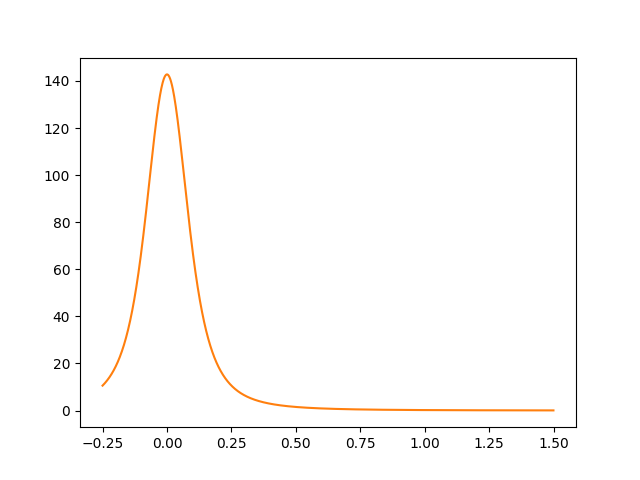
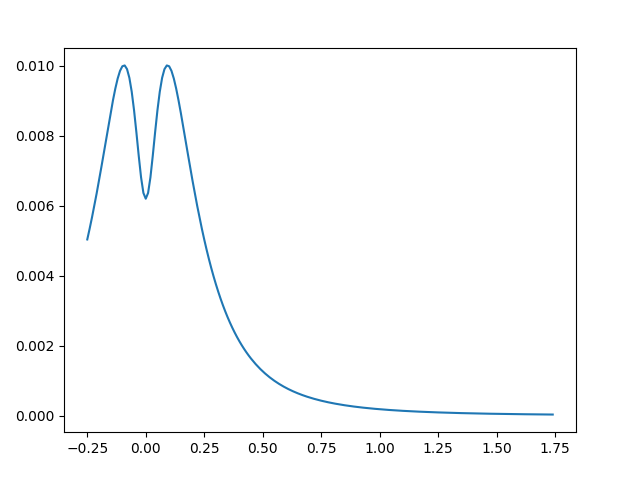
computation: refactored division by 0 handling
* Closes #46.

diff --git a/elements/coils.py b/elements/coils.py
@@ -10,11 +10,15 @@
 
 import mpmath
 import numpy as np
-
+import warnings
 from elements.base import BasicElement
 
 from utils.helper_functions import get_phi, adjust_field
 from utils.physics_constants import MU_0
+
+# Set the warning filter to errors such that one can catch them as they were errors
+# This is used to handle divisions by numerical 0
+warnings.filterwarnings('error')
 
 
 class BaseCoil(BasicElement):
@@ -137,7 +141,7 @@ class Coil(BaseCoil):
         self.angle_y = angle_y
         self.angle_z = angle_z
 
-        self.prefactor *= 1e3 / (2 * np.pi) * self.n * self.current / self.length
+        self.prefactor *= 1e0 / (2 * np.pi) * self.n * self.current / self.length
 
     def b_field_rho(self, x, rho):
         """Computes radial magnetic field
@@ -210,9 +214,6 @@ class Coil(BaseCoil):
         """Compute the magnetic field given the position in cylindrical coordinates."""
         r = np.sqrt(z ** 2 + y ** 2)
 
-        # if np.sqrt(x ** 2 + y ** 2) - rho < 0.001:
-        #     return np.array([0, 0, 0])
-
         phi = get_phi(y, z)
 
         field = np.array((self.b_field_x(x, r),
@@ -249,7 +250,7 @@ class RealCoil(BaseCoil):
         self.angle_y = angle_y
         self.angle_z = angle_z
 
-        self.prefactor *= 1e3 / (2 * np.pi) * self.n * self.current / self.length
+        self.prefactor *= 1e0 / (2 * np.pi) * self.n * self.current / self.length
 
     def b_field_rho(self, x, r, axis_point):
         """Compute the magnetic field in rho (radial) direction.
@@ -365,7 +366,7 @@ class SquareCoil(BaseCoil):
         self.angle_y = angle_y
         self.angle_z = angle_z
 
-        self.prefactor *= 1e0 / (4 * np.pi) * self.n * self.current / self.length
+        self.prefactor *= 1e-1 / (4 * np.pi) * self.n * self.current / self.length
 
     def check_physical_coil_overlap(self):
         """Deal with division by 0.
@@ -379,7 +380,7 @@ class SquareCoil(BaseCoil):
                 or abs(self.y + self.width) < numerical_error_acceptance\
                 or abs(self.x - self.height) < numerical_error_acceptance\
                 or abs(self.x + self.height) < numerical_error_acceptance:
-            return True
+            return False
 
     @staticmethod
     def _reverse_coordinates(x, y, z):
@@ -464,13 +465,20 @@ class SquareCoil(BaseCoil):
             # Python indexing starts from 0, so whenever alpha is used as an array index it has to be subtracted by 1
             alpha_index = alpha - 1
 
-            t1 = ((-1) ** alpha) * self.d[alpha_index] / \
-                 (self.r_values[alpha_index] * (self.r_values[alpha_index]
-                                                + (-1) ** (alpha + 1) * self.c[alpha_index]))
-            t2 = self.c[alpha_index] / (self.r_values[alpha_index] * (self.r_values[alpha_index] + self.d[alpha_index]))
+            try:
+                t1 = ((-1) ** alpha) * self.d[alpha_index] / \
+                     (self.r_values[alpha_index] * (self.r_values[alpha_index]
+                                                    + (-1) ** (alpha + 1) * self.c[alpha_index]))
+            except RuntimeWarning:
+                t1 = 0
+
+            try:
+                t2 = self.c[alpha_index] \
+                     / (self.r_values[alpha_index] * (self.r_values[alpha_index] + self.d[alpha_index]))
+            except RuntimeWarning:
+                t2 = 0
 
             _eta += t1 - t2
-
         return _eta
 
     @property
@@ -501,9 +509,11 @@ class SquareCoil(BaseCoil):
         for alpha in np.arange(1, 5):
             alpha_index = alpha - 1
 
-            _eta += ((-1) ** (alpha + 1)) * self.z / (
-                        self.r_values[alpha_index] * (self.r_values[alpha_index] + self.d[alpha_index]))
-
+            try:
+                _eta += ((-1) ** (alpha + 1)) * self.z / (
+                            self.r_values[alpha_index] * (self.r_values[alpha_index] + self.d[alpha_index]))
+            except RuntimeWarning:
+                _eta = 0
         return _eta
 
     @property

diff --git a/tests/test_elements/test_coil_square.py b/tests/test_elements/test_coil_square.py
@@ -19,7 +19,7 @@ from utils.physics_constants import MU_0
 class TestReferenceValues(TestCase):
 
     def setUp(self) -> None:
-        self.square_coil = SquareCoil()
+        self.square_coil = SquareCoil(coil_mid_pos=0, length=1, windings=1, wire_d=0.006)
 
     def test_square_coil_center_value(self):
         """Test for a reference value in the center of a square coil."""
@@ -32,8 +32,8 @@ class TestReferenceValues(TestCase):
 
         numerical_error_acceptance = 1e-8
 
-        self.square_coil.create_element(coil_mid_pos=0, length=1, windings=1, current=current, r=side_length/2,
-                                       wire_d=0.006)
+        self.square_coil.current = current
+        self.square_coil.r = side_length/2
 
         # Evaluate
         test_value = self.square_coil.b_field(0, 0, 0)

diff --git a/experiments/mieze/main.py b/experiments/mieze/main.py
@@ -47,10 +47,10 @@ class Mieze(Setup):
         current1 = current
         current2 = current * self.detector_distance / (self.detector_distance - self.coil_distance)
 
-        # self.create_element(element_class=SquareCoil, coil_mid_pos=SQUARE_COIL_POSITION_1ST)
+        self.create_element(element_class=SquareCoil, coil_mid_pos=SQUARE_COIL_POSITION_1ST)
 
-        # self._create_coil_set(current=current1)
-        # self._create_coil_set(current=current2, first_coil_pos=self.coil_distance)
+        self._create_coil_set(current=current1)
+        self._create_coil_set(current=current2, first_coil_pos=self.coil_distance)
 
         self.create_element(element_class=SquareCoil, coil_mid_pos=SQUARE_COIL_POSITION_2ND)
 

diff --git a/experiments/setup.py b/experiments/setup.py
@@ -246,7 +246,7 @@ class Setup:
 
         y_values = self.get_1d_b_values()
 
-        print(self.x_range)
+        # print(self.x_range)
         # print(y_values)
         fig = plt.figure()
         ax = fig.add_axes([0.1, 0.1, 0.8, 0.8])  # main axes

diff --git a/plotting_scripts/plotting_parameters.py b/plotting_scripts/plotting_parameters.py
@@ -1,7 +1,7 @@
 from elements.coils import Coil, SquareCoil
 
 plot_parameters = {
-    'coil_simple_1d_abs_xy': {
+    'coil_simple_1d_abs': {
         'element': Coil,
         'plot_dimension': '1d',
         'plot_type': 'abs',
